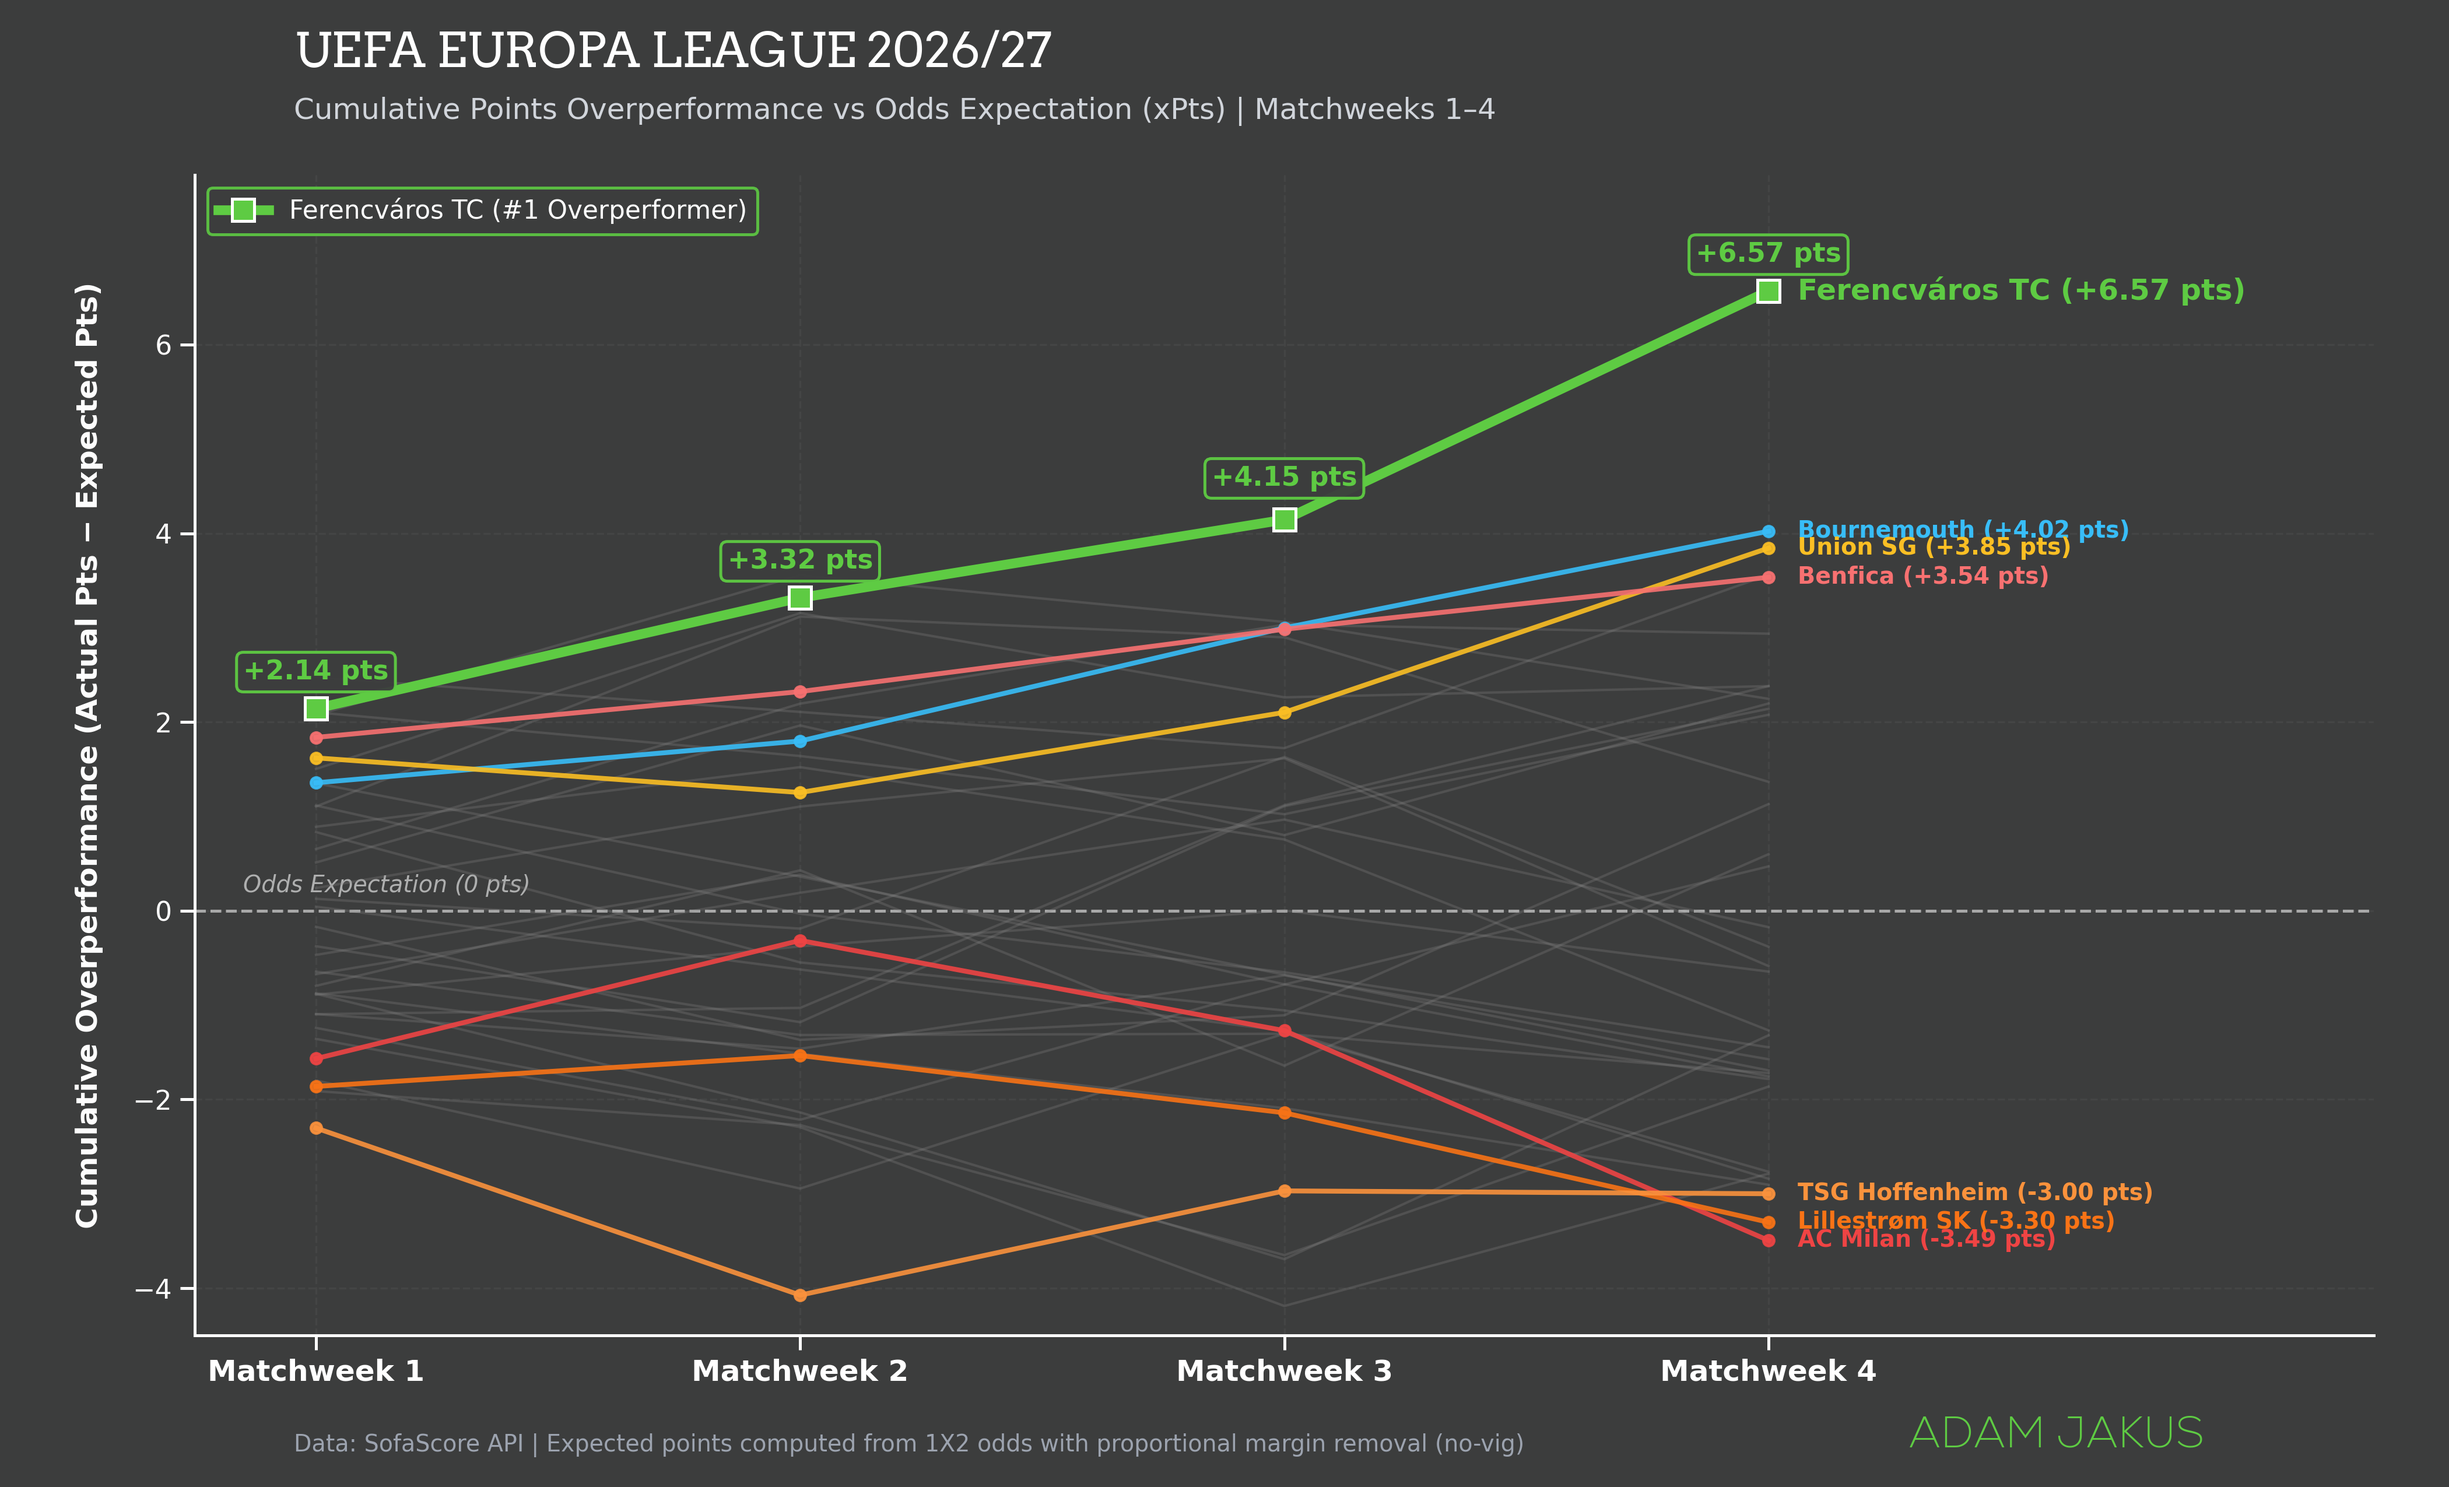
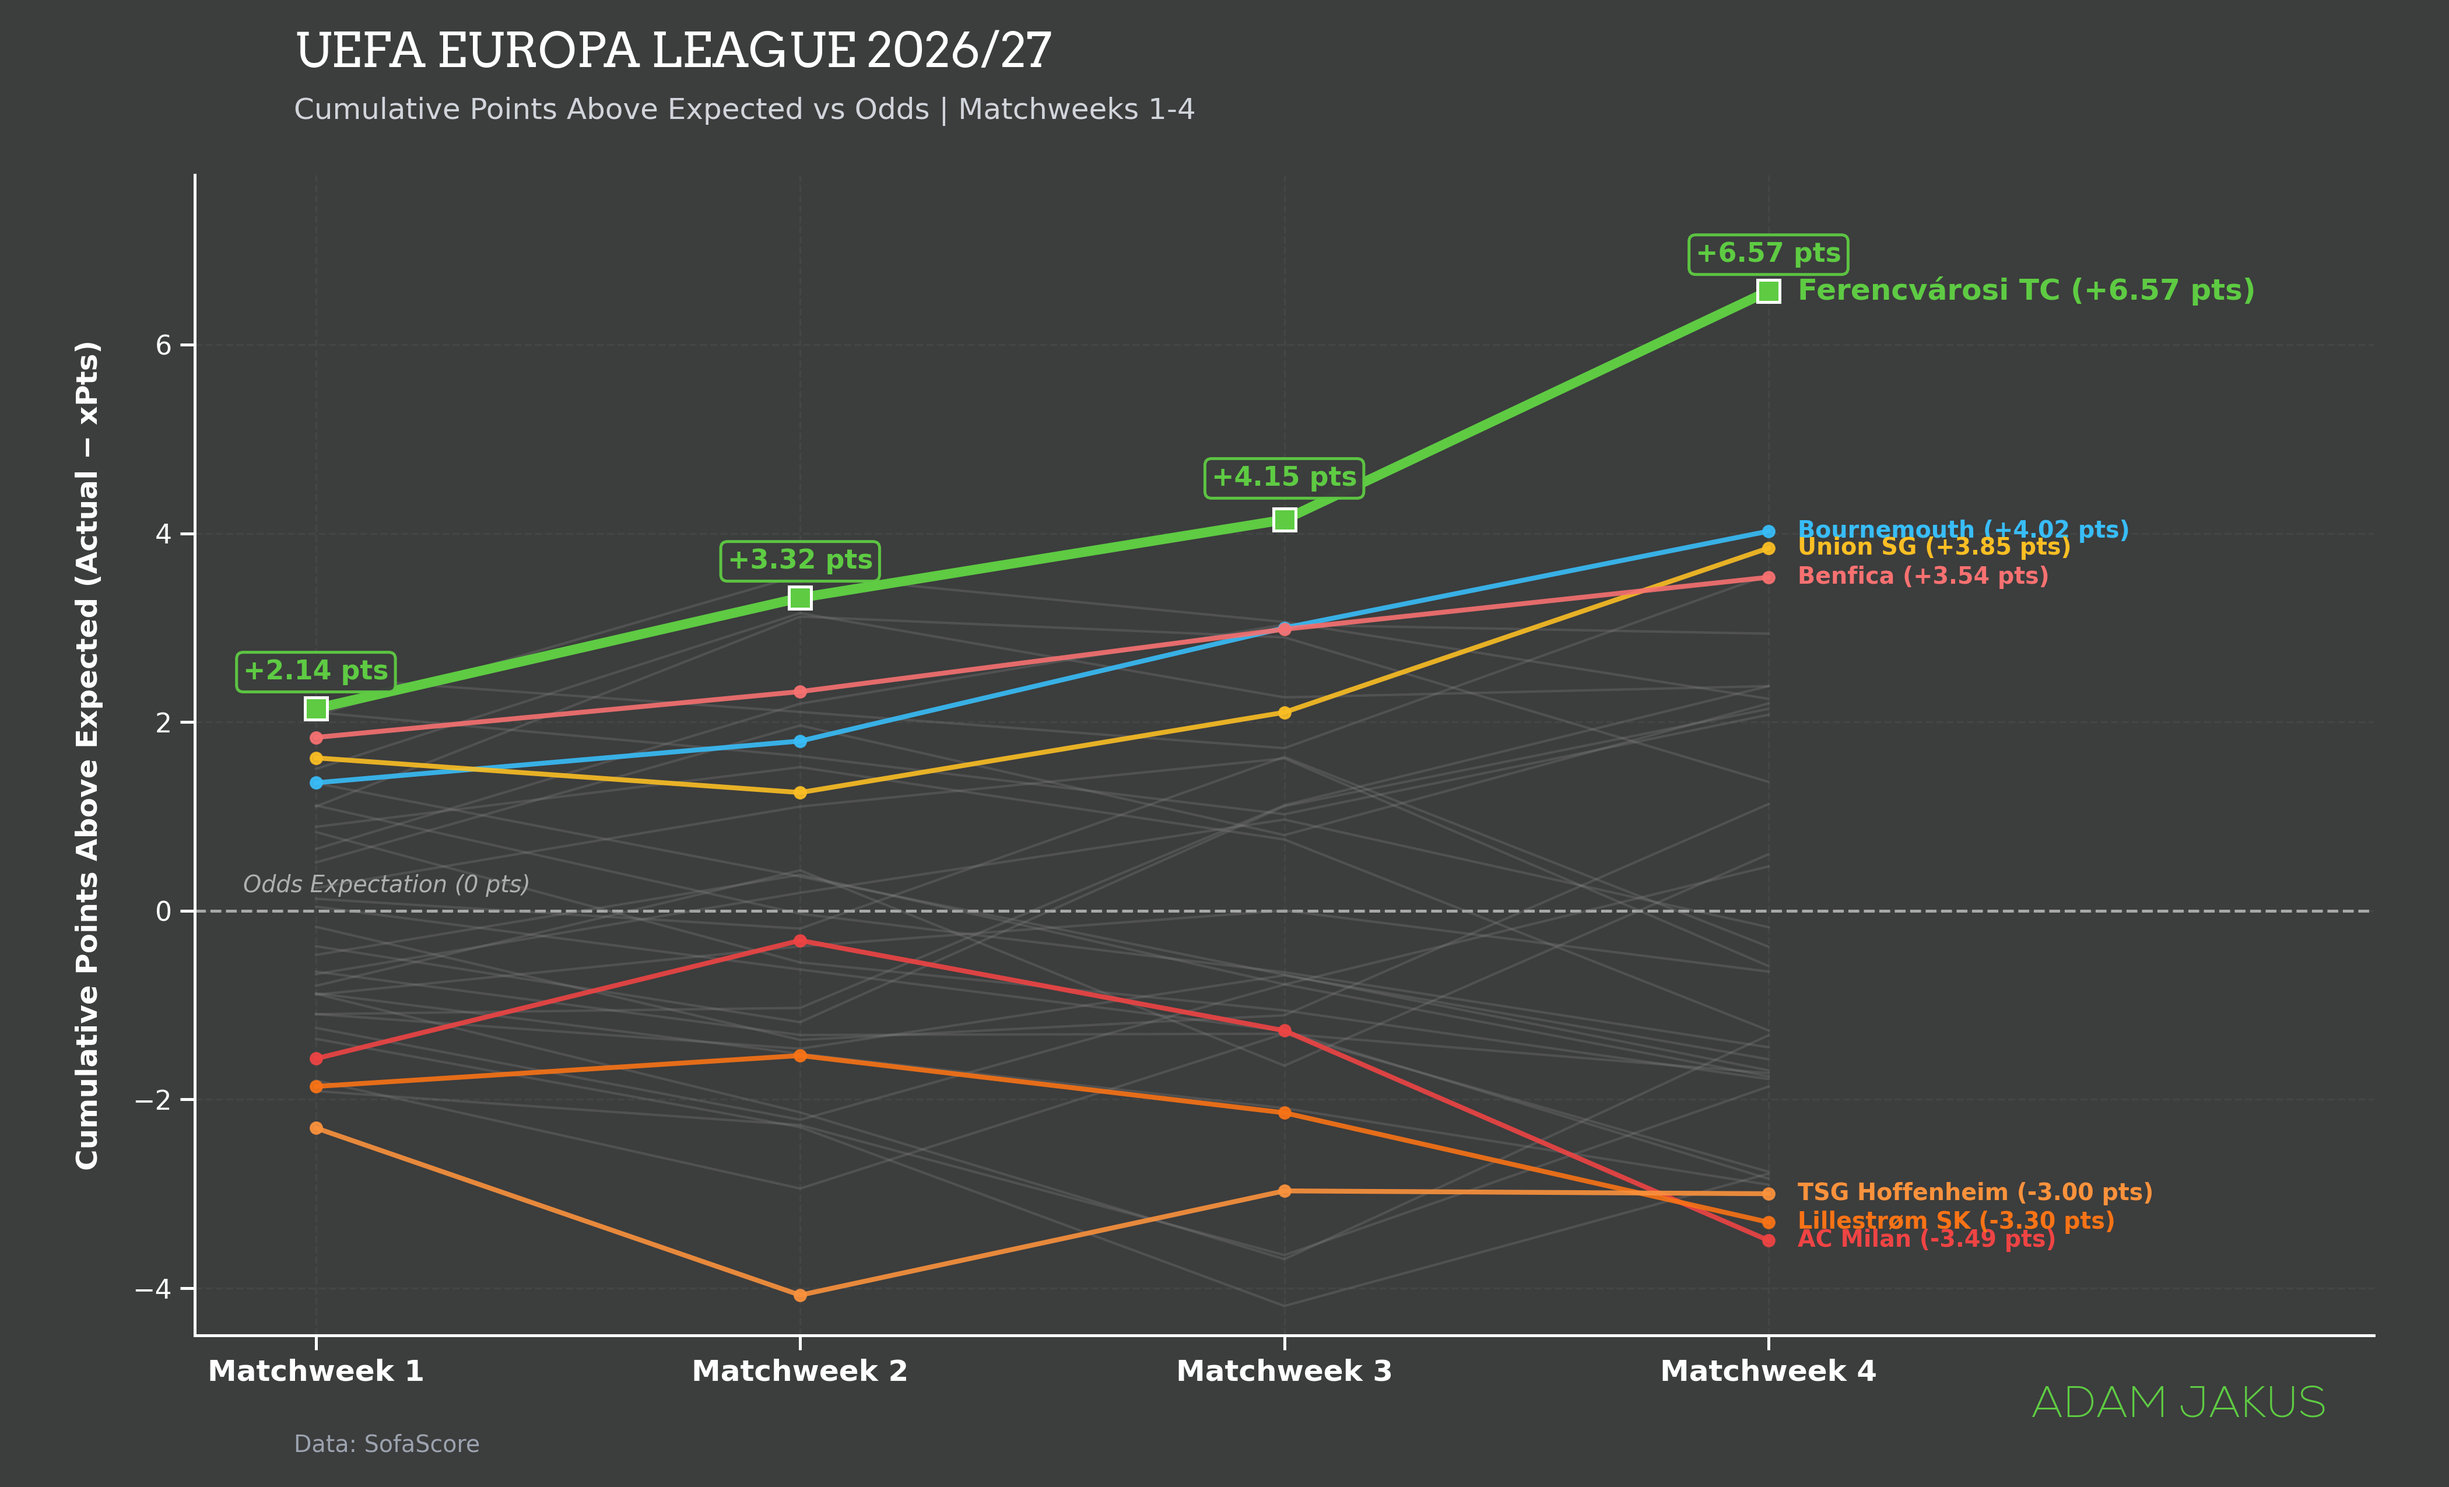
feat: add scripts to plot Ferencváros Europa League performance and points distribution

diff --git a/scripts/Fradi_EL2026_W4/plot_points_distribution.py b/scripts/Fradi_EL2026_W4/plot_points_distribution.py
@@ -1,0 +1,206 @@
+"""
+Ferencváros TC - UEFA Europa League 2026/27 Points Distribution Analysis
+Visualizes the probability distribution of all possible point totals (0 to 12)
+based on closing 1X2 betting odds across Matchweeks 1 to 4.
+Adam Jakus styling: dark background (#3c3d3d), signature green (#5ECB43),
+Nexa-ExtraLight typography, in full English.
+"""
+
+import os
+import pandas as pd
+import numpy as np
+from itertools import product
+import matplotlib
+matplotlib.use("Agg")
+import matplotlib.pyplot as plt
+import matplotlib.font_manager as font_manager
+
+
+def create_points_distribution_plot(
+    csv_path: str = "europa_league_2026_matches.csv",
+    output_png: str = "fradi_points_distribution_adam_jakus.png"
+):
+    df = pd.read_csv(csv_path)
+
+    # Filter Ferencvaros League Phase matches
+    fin = df[
+        (df["stage"] == "League Phase") &
+        (df["status_type"] == "finished") &
+        ((df["home_team_name"].str.contains("Ferenc")) | (df["away_team_name"].str.contains("Ferenc")))
+    ].sort_values("round_nr")
+
+    match_probs = []
+    match_summaries = []
+
+    for _, row in fin.iterrows():
+        is_home = "Ferenc" in row["home_team_name"]
+        opp = row["away_team_name"] if is_home else row["home_team_name"]
+        o1, ox, o2 = row["odds_1"], row["odds_X"], row["odds_2"]
+        
+        # Proportional no-vig removal
+        inv_sum = 1.0 / o1 + 1.0 / ox + 1.0 / o2
+        p_w = (1.0 / o1 if is_home else 1.0 / o2) / inv_sum
+        p_d = (1.0 / ox) / inv_sum
+        p_l = 1.0 - p_w - p_d
+        
+        match_probs.append({"W": p_w, "D": p_d, "L": p_l})
+        match_summaries.append({
+            "round": int(row["round_nr"]),
+            "opp": opp,
+            "venue": "H" if is_home else "A",
+            "odd": o1 if is_home else o2,
+            "p_win": p_w * 100
+        })
+
+    # Calculate exact distribution for all 3^4 = 81 scenarios
+    point_probs = {pts: 0.0 for pts in range(13)}
+    
+    for outcomes in product(["W", "D", "L"], repeat=4):
+        prob = 1.0
+        pts = 0
+        for i, out in enumerate(outcomes):
+            prob *= match_probs[i][out]
+            if out == "W":
+                pts += 3
+            elif out == "D":
+                pts += 1
+        point_probs[pts] += prob
+
+    dist_df = pd.DataFrame([
+        {"points": pts, "prob": point_probs[pts], "pct": point_probs[pts] * 100}
+        for pts in range(13)
+    ])
+
+    expected_pts = sum(dist_df["points"] * dist_df["prob"])
+    prob_12_pts = dist_df.loc[dist_df["points"] == 12, "pct"].values[0]
+
+    # Styling & Fonts
+    background_color = "#3c3d3d"
+    mycolor = "#5ECB43"  # Adam Jakus Green
+    bar_default_color = "#4b5563"  # Slate grey
+    bar_edge_default = "#6b7280"
+    
+    font_path_arvo = r"E:\Data\TSDP\helpers\Arvo-Regular.ttf"
+    font_path_nexa = r"E:\Data\TSDP\helpers\Nexa-ExtraLight.ttf"
+    
+    arvo_prop = font_manager.FontProperties(fname=font_path_arvo) if os.path.exists(font_path_arvo) else None
+    nexa_prop = font_manager.FontProperties(fname=font_path_nexa) if os.path.exists(font_path_nexa) else None
+
+    # Setup Figure
+    fig, ax = plt.subplots(figsize=(14, 8.5), dpi=300)
+    fig.patch.set_facecolor(background_color)
+    ax.set_facecolor(background_color)
+
+    # Colors for each bar (highlight 12 points)
+    bar_colors = [mycolor if pts == 12 else bar_default_color for pts in dist_df["points"]]
+    bar_edges = ["#ffffff" if pts == 12 else bar_edge_default for pts in dist_df["points"]]
+    bar_widths = [0.75 if pts != 11 else 0.0 for pts in dist_df["points"]]
+
+    bars = ax.bar(
+        dist_df["points"], dist_df["pct"],
+        color=bar_colors, edgecolor=bar_edges,
+        width=0.72, linewidth=1.2, zorder=3
+    )
+
+    # Highlight 12 pts bar with glow / extra edge
+    bars[12].set_linewidth(2.2)
+    bars[12].set_edgecolor("#ffffff")
+
+    # Bar value labels on top
+    for pts, pct in zip(dist_df["points"], dist_df["pct"]):
+        if pts == 11 or pct < 0.01:
+            continue
+        if pts == 12:
+            ax.annotate(
+                f"{pct:.2f}%\n(1 in 111)",
+                (pts, pct),
+                textcoords="offset points",
+                xytext=(0, 14),
+                ha="center",
+                fontweight="bold",
+                color=mycolor,
+                fontsize=11.5,
+                bbox=dict(boxstyle="round,pad=0.35", facecolor=background_color, edgecolor=mycolor, lw=1.5, alpha=0.98),
+                zorder=10
+            )
+        else:
+            text_color = "white" if pct >= 4.0 else "#d1d5db"
+            font_w = "bold" if pct >= 10.0 else "normal"
+            ax.annotate(
+                f"{pct:.1f}%",
+                (pts, pct),
+                textcoords="offset points",
+                xytext=(0, 6),
+                ha="center",
+                fontweight=font_w,
+                color=text_color,
+                fontsize=10,
+                zorder=5
+            )
+
+    # Vertical line for Expected Points (xPts)
+    ax.axvline(expected_pts, color="#38bdf8", linestyle="--", linewidth=1.8, alpha=0.9, zorder=6)
+    ax.annotate(
+        f"Expected Points: {expected_pts:.2f} pts",
+        xy=(expected_pts, 21.0),
+        xytext=(expected_pts - 2.8, 22.2),
+        arrowprops=dict(arrowstyle="->", color="#38bdf8", lw=1.5),
+        color="#38bdf8",
+        fontsize=11,
+        fontweight="bold",
+        bbox=dict(boxstyle="round,pad=0.3", facecolor=background_color, edgecolor="#38bdf8", lw=1.2, alpha=0.95),
+        zorder=7
+    )
+
+    # Spines
+    ax.spines["bottom"].set_color("white")
+    ax.spines["bottom"].set_linewidth(1.2)
+    ax.spines["left"].set_color("white")
+    ax.spines["left"].set_linewidth(1.2)
+    ax.spines["top"].set_visible(False)
+    ax.spines["right"].set_visible(False)
+
+    # Grid & Ticks
+    ax.grid(True, axis="y", color="#555555", alpha=0.35, linestyle="--", linewidth=0.8, zorder=1)
+    ax.tick_params(axis="x", colors="white", labelsize=11.5, length=6, width=1.2)
+    ax.tick_params(axis="y", colors="white", labelsize=11, length=6, width=1.2)
+
+    ax.set_xticks(range(13))
+    ax.set_xticklabels([f"{p} pts" if p != 11 else "" for p in range(13)], fontweight="bold")
+    ax.set_xlim(-0.7, 13.0)
+    ax.set_ylim(0, 25.0)
+
+    ax.set_xlabel("Points after 4 Matchweeks", color="white", fontsize=12, fontweight="bold", labelpad=10)
+    ax.set_ylabel("Probability (%)", color="white", fontsize=12, fontweight="bold", labelpad=10)
+
+    # Titles (in English)
+    title_text = "FERENCVÁROSI TC: POINTS PROBABILITY DISTRIBUTION"
+    subtitle_text = "Pre-match Odds-implied Distribution | UEFA Europa League 2026/2027 (Matchweeks 1-4)"
+    
+    if arvo_prop:
+        fig.text(0.08, 0.955, title_text, color="white", fontsize=19, fontproperties=arvo_prop, ha="left")
+    else:
+        fig.text(0.08, 0.955, title_text, color="white", fontsize=19, fontweight="bold", ha="left")
+        
+    fig.text(0.08, 0.92, subtitle_text, color="#d1d5db", fontsize=11.5, ha="left")
+
+    # Signature / Branding (ADAM JAKUS)
+    if nexa_prop:
+        fig.text(0.92, 0.025, "ADAM JAKUS", color=mycolor, fontsize=18, fontproperties=nexa_prop, ha="right", va="bottom")
+    else:
+        fig.text(0.92, 0.025, "ADAM JAKUS", color=mycolor, fontsize=18, fontweight="bold", ha="right", va="bottom")
+
+    fig.text(
+        0.08, 0.025,
+        "Data: SofaScore",
+        color="#9ca3af", fontsize=10.0, ha="left", va="bottom"
+    )
+
+    plt.tight_layout(rect=[0.02, 0.05, 0.98, 0.90])
+    plt.savefig(output_png, facecolor=background_color, edgecolor="none", dpi=300)
+    plt.close()
+    print(f"[Done] Points distribution plot created at '{output_png}'.")
+
+
+if __name__ == "__main__":
+    create_points_distribution_plot()

diff --git a/scripts/Fradi_EL2026_W4/plot_cumulative_overperformance.py b/scripts/Fradi_EL2026_W4/plot_cumulative_overperformance.py
@@ -157,7 +157,7 @@ def create_adam_jakus_plot(
         fradi_grp["round"], fradi_grp["cum_diff"],
         color=mycolor, linewidth=4.0, marker="s", markersize=9,
         markeredgecolor="#ffffff", markeredgewidth=1.2,
-        label="Ferencváros TC (#1 Overperformer)", zorder=10
+        zorder=10
     )
 
     # Callout values for Ferencváros
@@ -181,7 +181,7 @@ def create_adam_jakus_plot(
     # End label for Ferencváros
     last_fradi_val = fradi_grp[fradi_grp["round"] == last_round]["cum_diff"].values[0]
     ax.text(
-        last_round + 0.06, last_fradi_val, f"Ferencváros TC (+{last_fradi_val:.2f} pts)",
+        last_round + 0.06, last_fradi_val, f"Ferencvárosi TC (+{last_fradi_val:.2f} pts)",
         color=mycolor, fontsize=12, fontweight="bold", va="center", zorder=12
     )
 
@@ -203,11 +203,11 @@ def create_adam_jakus_plot(
     ax.set_xlim(min(rounds) - 0.25, last_round + 1.25)
     ax.set_ylim(-4.5, 7.8)
 
-    ax.set_ylabel("Cumulative Overperformance (Actual Pts − Expected Pts)", color="white", fontsize=12, fontweight="bold", labelpad=12)
+    ax.set_ylabel("Cumulative Points Above Expected (Actual − xPts)", color="white", fontsize=12, fontweight="bold", labelpad=12)
 
     # Titles (in English)
     title_text = "UEFA EUROPA LEAGUE 2026/27"
-    subtitle_text = "Cumulative Points Overperformance vs Odds Expectation (xPts) | Matchweeks 1–4"
+    subtitle_text = "Cumulative Points Above Expected vs Odds | Matchweeks 1-4"
     
     if arvo_prop:
         fig.text(0.12, 0.955, title_text, color="white", fontsize=20, fontproperties=arvo_prop, ha="left")
@@ -216,26 +216,16 @@ def create_adam_jakus_plot(
         
     fig.text(0.12, 0.92, subtitle_text, color="#d1d5db", fontsize=12, ha="left")
 
-    # Legend
-    legend = ax.legend(
-        loc="upper left",
-        facecolor=background_color,
-        edgecolor=mycolor,
-        fontsize=10.5,
-        labelcolor="white",
-        framealpha=0.9
-    )
-    legend.get_frame().set_linewidth(1.2)
 
     # Signature / Branding (ADAM JAKUS)
     if nexa_prop:
-        fig.text(0.90, 0.02, "ADAM JAKUS", color=mycolor, fontsize=18, fontproperties=nexa_prop, ha="right", va="bottom")
+        fig.text(0.95, 0.04, "ADAM JAKUS", color=mycolor, fontsize=18, fontproperties=nexa_prop, ha="right", va="bottom")
     else:
-        fig.text(0.90, 0.02, "ADAM JAKUS", color=mycolor, fontsize=18, fontweight="bold", ha="right", va="bottom")
+        fig.text(0.95, 0.04, "ADAM JAKUS", color=mycolor, fontsize=18, fontweight="bold", ha="right", va="bottom")
 
     fig.text(
         0.12, 0.02,
-        "Data: SofaScore API | Expected points computed from 1X2 odds with proportional margin removal (no-vig)",
+        "Data: SofaScore",
         color="#9ca3af", fontsize=9.5, ha="left", va="bottom"
     )
 
